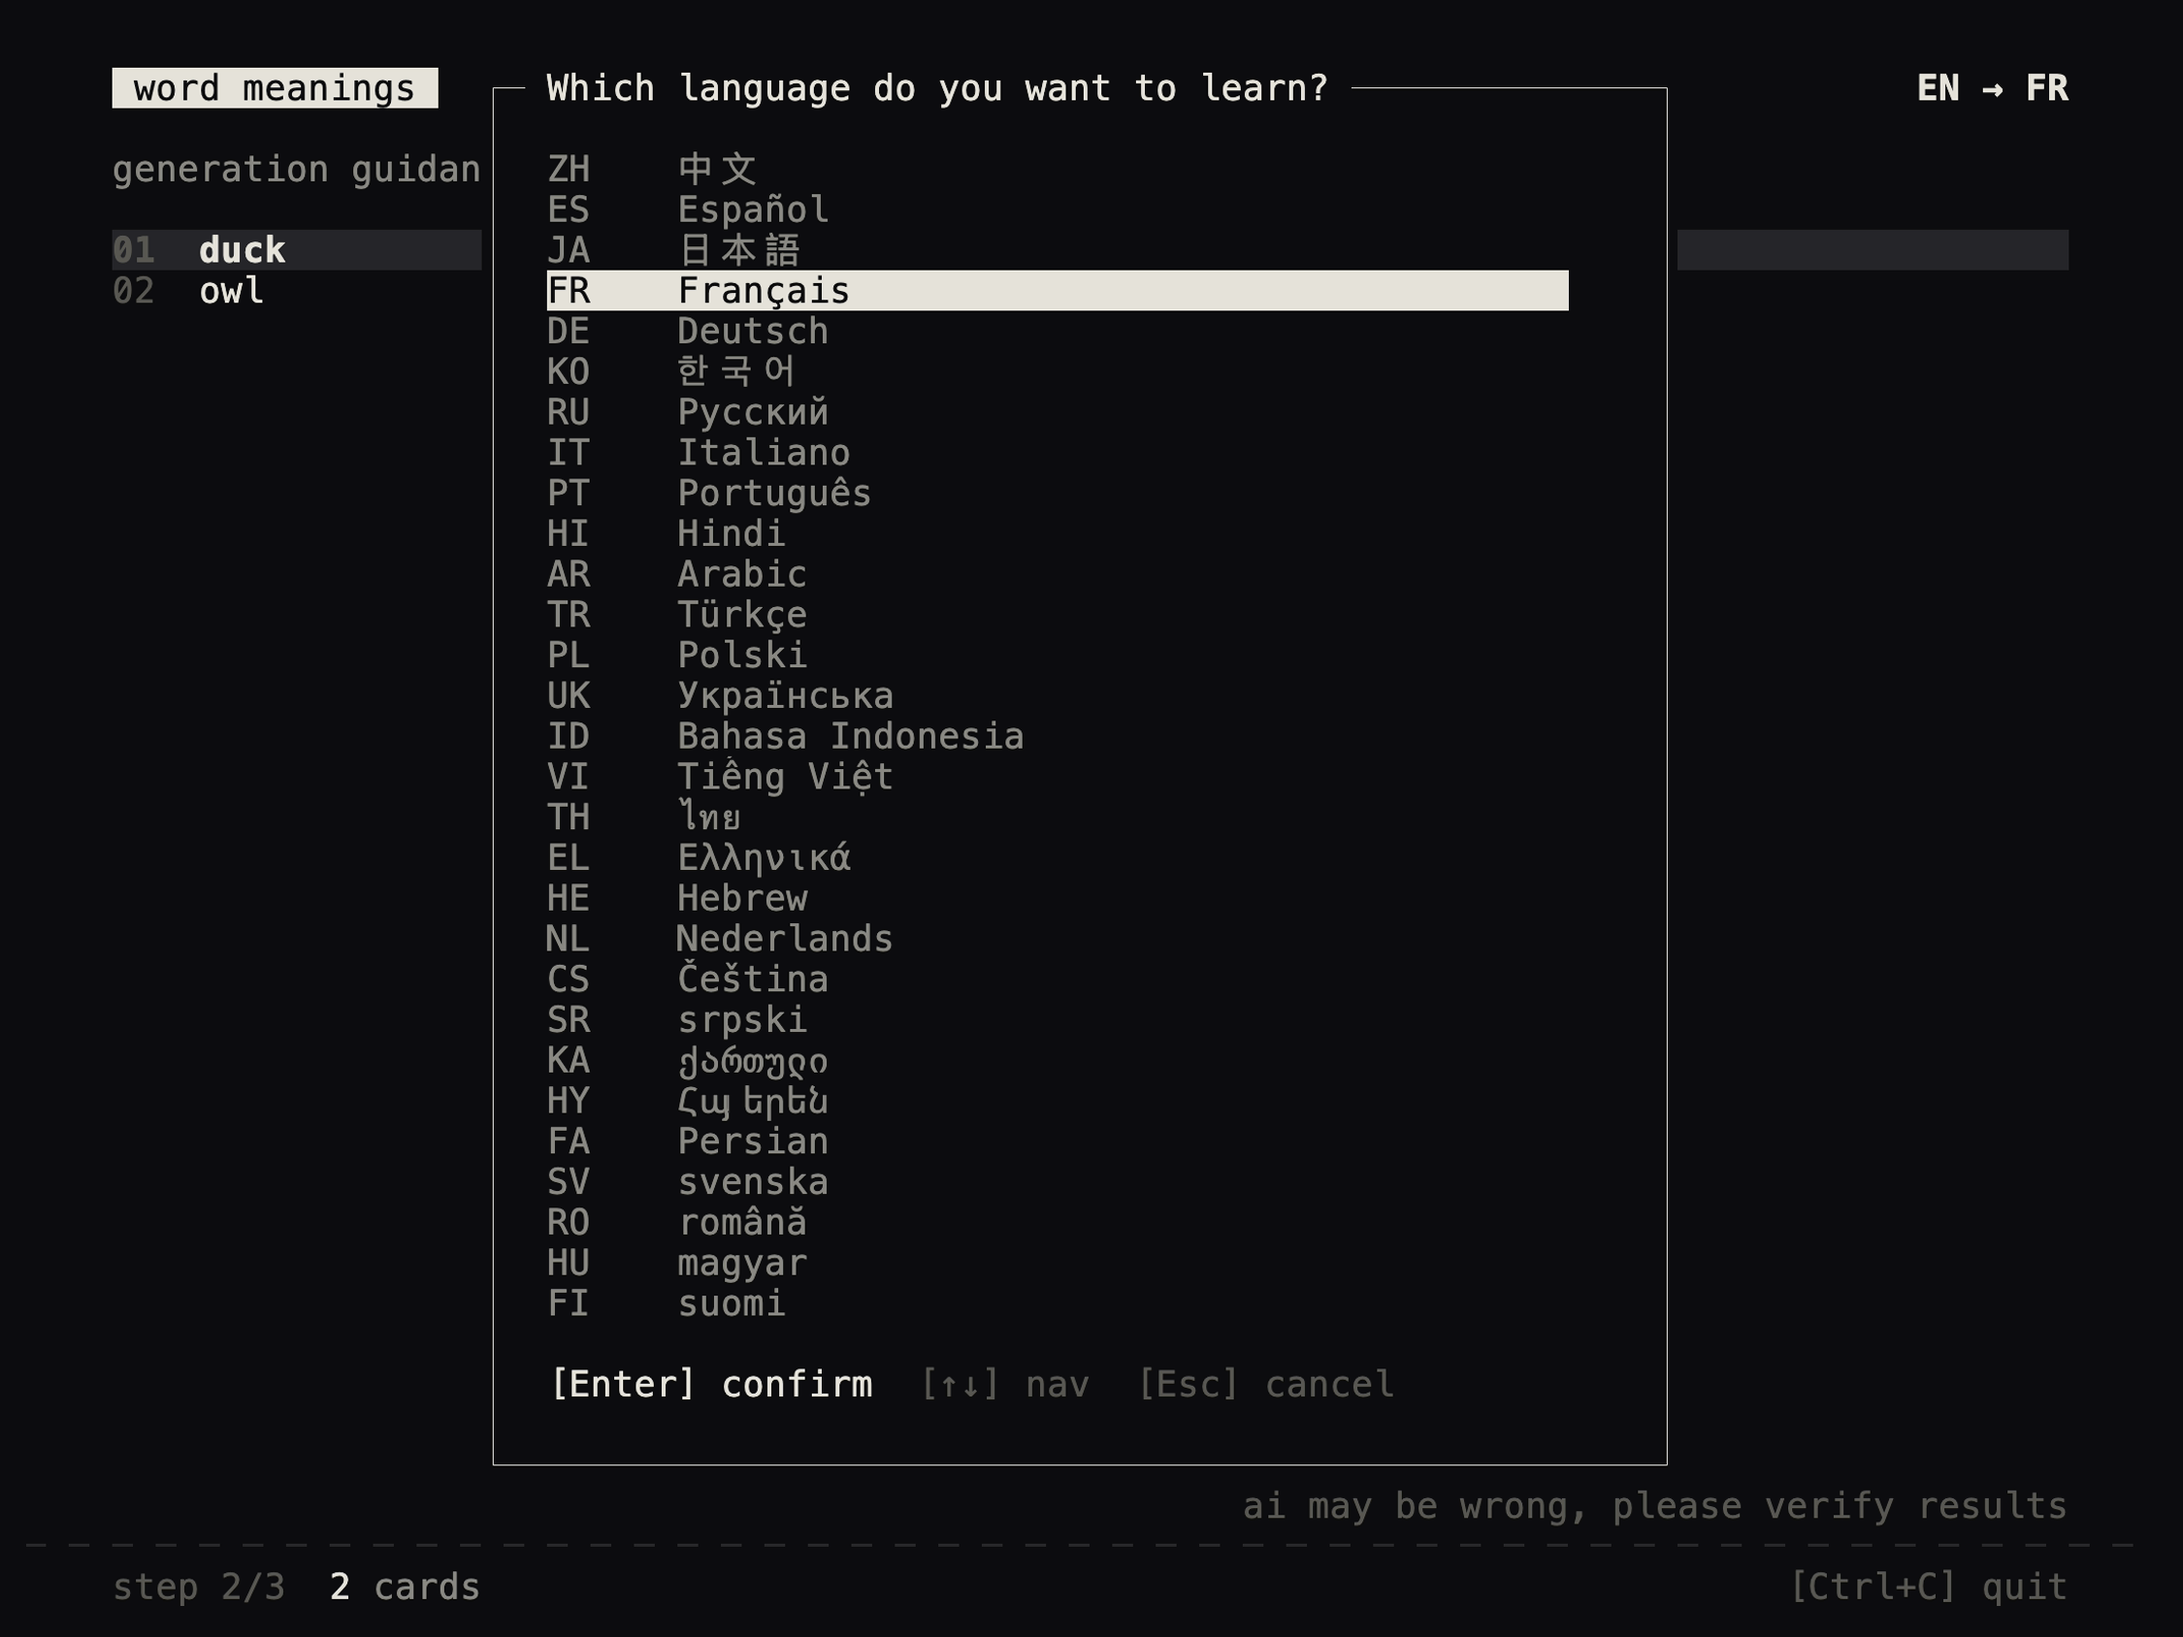
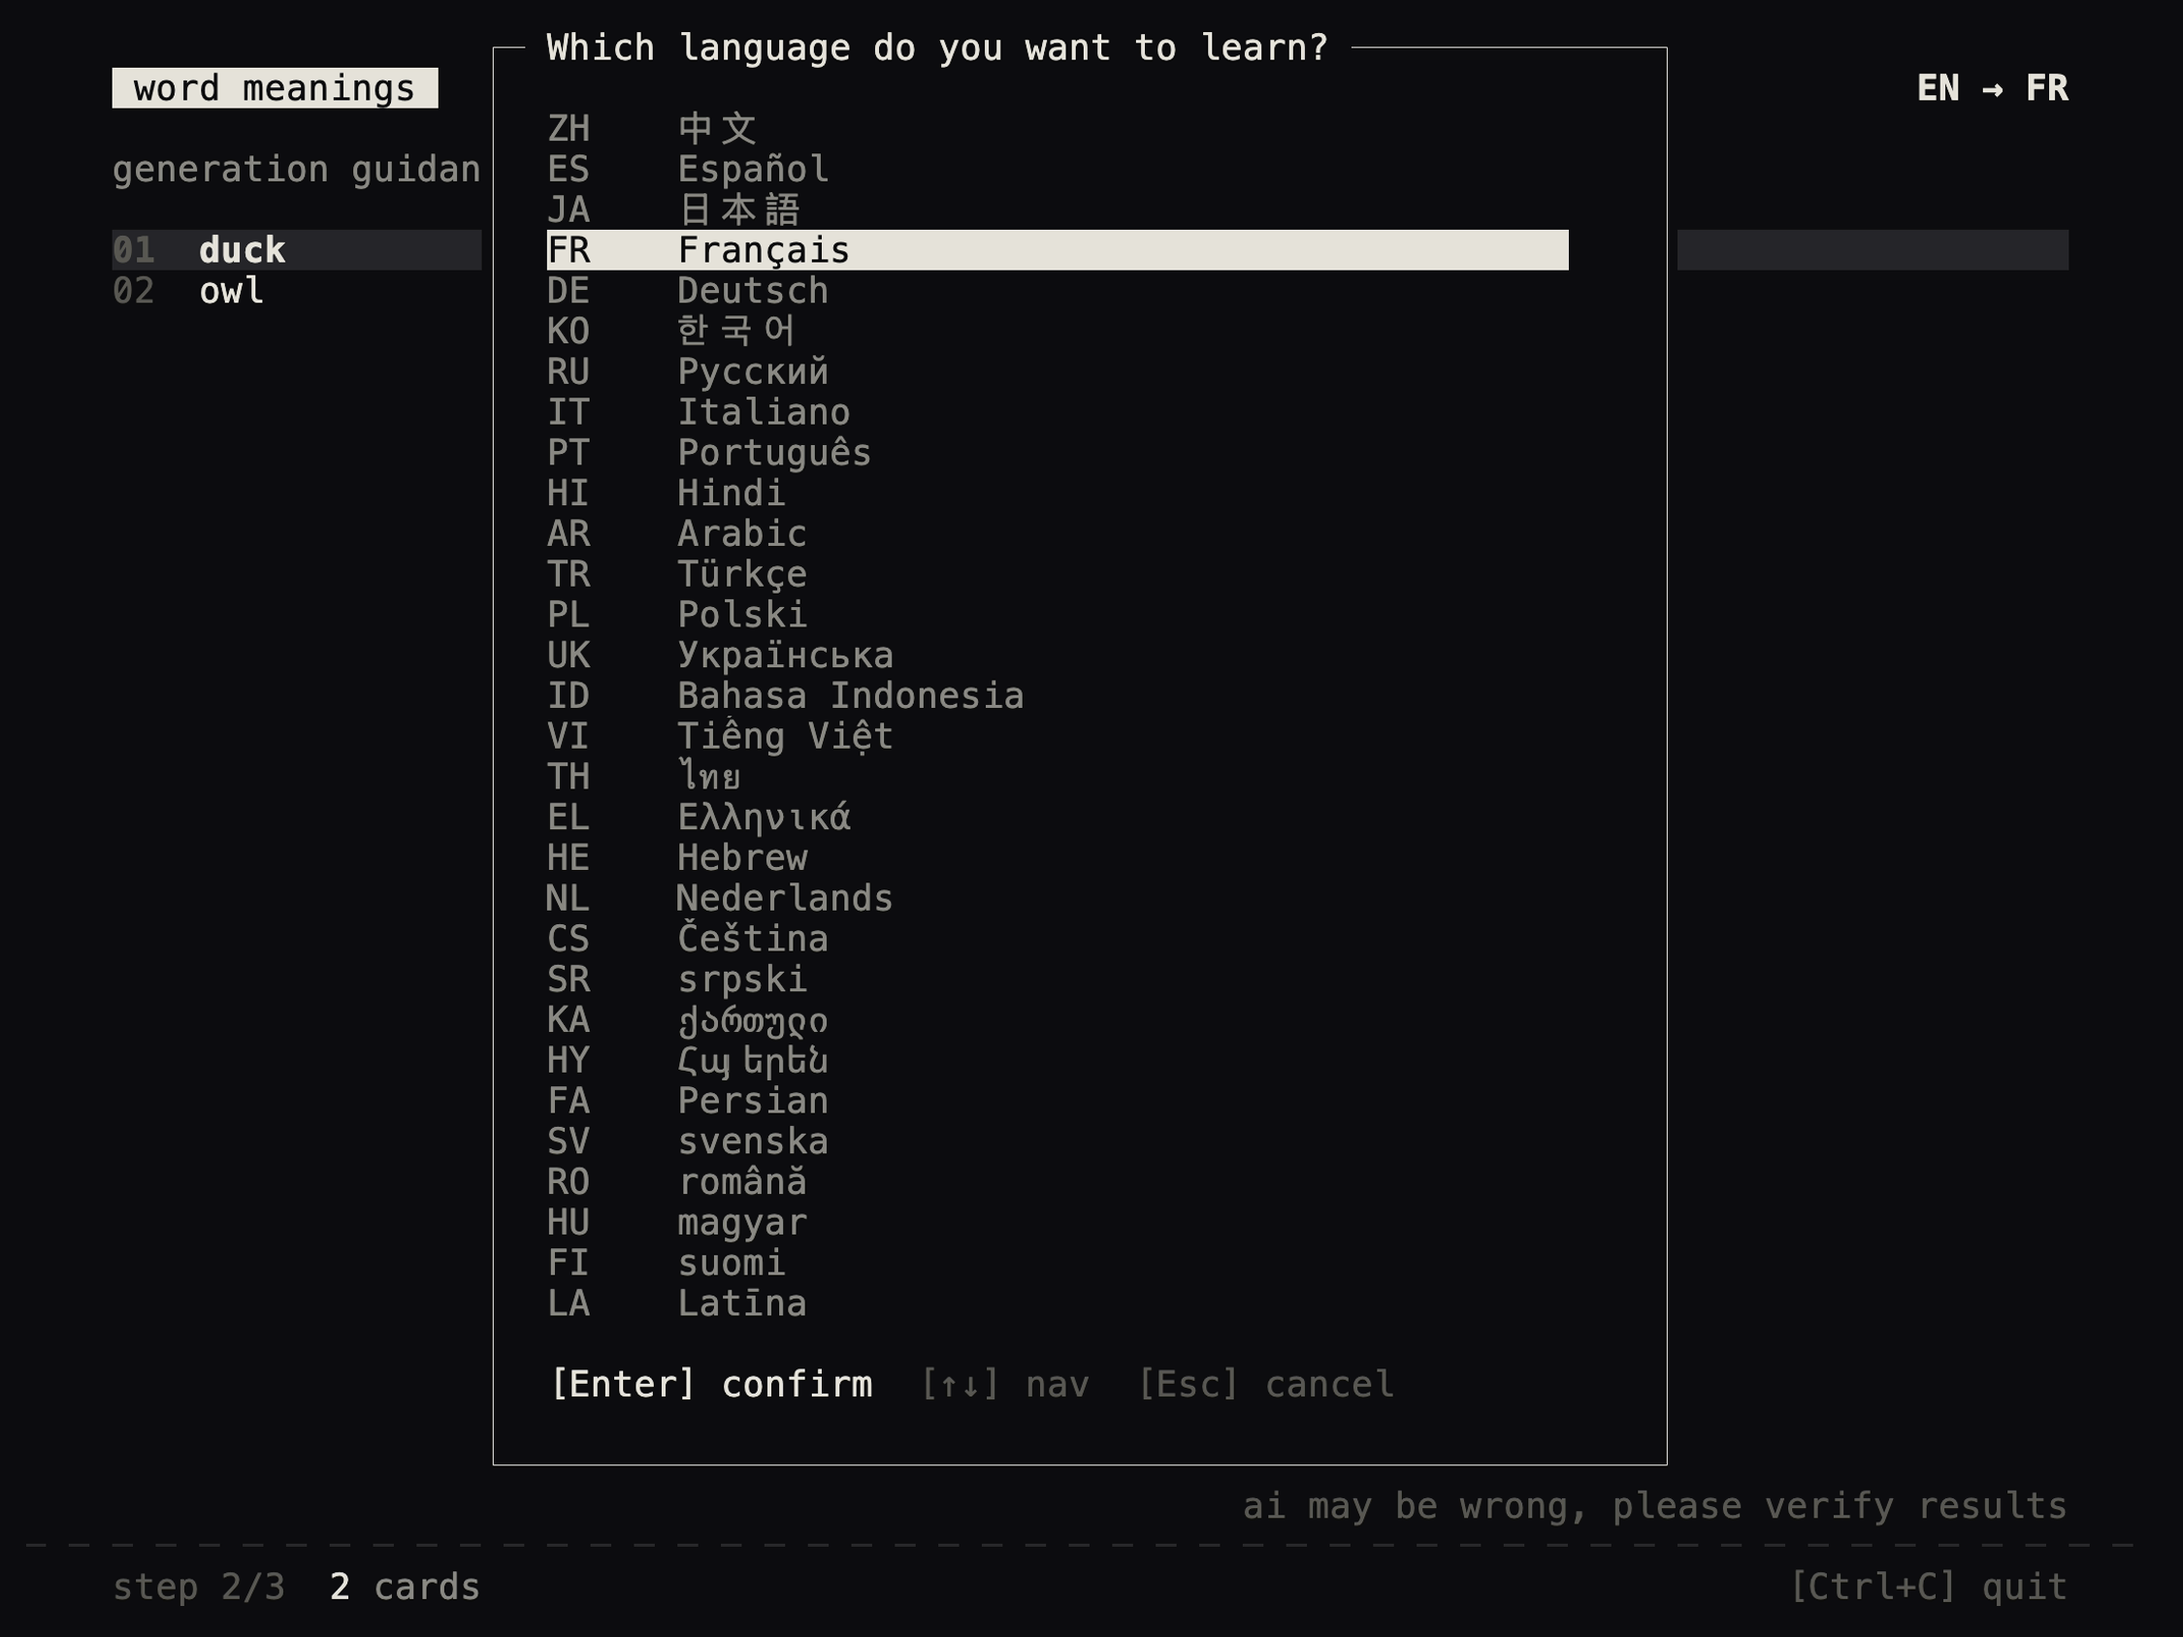
1.18.0: Learn Latin with Classical pronunciation (#73)
* Add Classical Latin support for release 1.18.0

* Refresh language picker captures for Classical Latin

* Fix the vowel length in a Latin example

Changed region(s): [[0.2489, 0.0, 0.7156, 0.8009]]

diff --git a/src/languages/registry.rs b/src/languages/registry.rs
@@ -60,7 +60,7 @@ impl LanguageCatalog {
     }
 
     /// Return the supported language codes in stable order.
-    pub fn codes(&self) -> [&'static str; 30] {
+    pub fn codes(&self) -> [&'static str; 31] {
         profile_codes()
     }
 
@@ -88,7 +88,7 @@ impl LanguageCatalog {
 }
 
 /// Return codes from the canonical profile declarations.
-pub(super) fn profile_codes() -> [&'static str; 30] {
+pub(super) fn profile_codes() -> [&'static str; 31] {
     from_fn(|index| profiles()[index].code)
 }
 
@@ -106,10 +106,10 @@ pub fn language(code: &str) -> Result<LanguageProfile> {
 ///
 /// Every catalog lookup reads this table, and the TUI reads it thousands of
 /// times per rendered frame, so declaring it per call meant rebuilding
-/// thirty profiles — and every string inside them — on each one. The
+/// thirty-one profiles — and every string inside them — on each one. The
 /// declaration is a constant, so it is built once and lent out by reference.
-fn profiles() -> &'static [LanguageProfile; 30] {
-    static PROFILES: OnceLock<[LanguageProfile; 30]> = OnceLock::new();
+fn profiles() -> &'static [LanguageProfile; 31] {
+    static PROFILES: OnceLock<[LanguageProfile; 31]> = OnceLock::new();
     PROFILES.get_or_init(declared_profiles)
 }
 
@@ -117,7 +117,7 @@ fn profiles() -> &'static [LanguageProfile; 30] {
 /// the order surfaced everywhere in the UI (Welcome chips, `Cmd+L` picker,
 /// Gemini language list) and is sorted by global learning popularity, not
 /// alphabetically.
-fn declared_profiles() -> [LanguageProfile; 30] {
+fn declared_profiles() -> [LanguageProfile; 31] {
     [
         LanguageProfile {
             code: "en",
@@ -389,6 +389,15 @@ fn declared_profiles() -> [LanguageProfile; 30] {
             naming: DeckNaming::new("Finnish Vocabulary", "fi", super::DEFAULT_FILE),
             labels: UiLabels::new("Käännös", "Asiayhteys", "Vihje", "Tärkeys"),
         },
+        LanguageProfile {
+            code: "la",
+            prompt: String::from("Classical Latin"),
+            endonym: String::from("Latīna"),
+            text_gate: TextGate::Ocr(OcrModel::Latin),
+            direction: TextDirection::Ltr,
+            naming: DeckNaming::new("Latin Vocabulary", "la", super::DEFAULT_FILE),
+            labels: UiLabels::new("Interpretātiō", "Contextus", "Indicium", "Momentum"),
+        },
     ]
 }
 
@@ -429,7 +438,7 @@ mod tests {
             [
                 "en", "zh", "es", "ja", "fr", "de", "ko", "ru", "it", "pt", "hi", "ar", "tr", "pl",
                 "uk", "id", "vi", "th", "el", "he", "nl", "cs", "sr", "ka", "hy", "fa", "sv", "ro",
-                "hu", "fi",
+                "hu", "fi", "la",
             ],
             "language profiles no longer follow the requested popularity order"
         );
@@ -477,6 +486,7 @@ mod tests {
                 ("ro", TextGate::Ocr(OcrModel::Latin), TextDirection::Ltr),
                 ("hu", TextGate::Ocr(OcrModel::Latin), TextDirection::Ltr),
                 ("fi", TextGate::Ocr(OcrModel::Latin), TextDirection::Ltr),
+                ("la", TextGate::Ocr(OcrModel::Latin), TextDirection::Ltr),
             ],
             "a language profile lost its authoritative gate or direction declaration"
         );
@@ -576,6 +586,7 @@ mod tests {
                 ("ro", "română".into()),
                 ("hu", "magyar".into()),
                 ("fi", "suomi".into()),
+                ("la", "Latīna".into()),
             ],
             "a language profile lost or misspelled the name it shows itself under"
         );

diff --git a/tests/snapshot.rs b/tests/snapshot.rs
@@ -208,7 +208,7 @@ fn welcome_language_grid_cannot_hide_the_added_codes_on_a_short_terminal() {
     );
     let rendered = render_sized(&app, 80, 16);
     assert!(
-        ["SR", "KA", "HY", "FA", "SV", "RO", "HU", "FI"]
+        ["SR", "KA", "HY", "FA", "SV", "RO", "HU", "FI", "LA"]
             .into_iter()
             .all(|code| rendered.contains(format!(" {code} ").as_str())),
         "the short Welcome grid hid an added language code"
@@ -354,7 +354,7 @@ fn pick_languages_modal_scrolls_the_last_language_into_view() {
     )
     .0;
     assert!(
-        render_sized(&walked, 96, 20).contains("suomi"),
+        render_sized(&walked, 96, 20).contains("Latīna"),
         "the last language stayed unreachable however far the column scrolled"
     );
 }
@@ -372,14 +372,23 @@ fn pick_languages_modal_keeps_every_row_in_one_grid() {
     let borders = (0..buffer.area.height)
         .map(|row| {
             (0..buffer.area.width)
-                .filter(|column| buffer[(*column, row)].symbol() == "│")
+                .filter(|column| matches!(buffer[(*column, row)].symbol(), "│" | "┃"))
                 .collect::<Vec<_>>()
         })
         .filter(|found| !found.is_empty())
+        .collect::<Vec<_>>();
+    let outer = borders
+        .iter()
+        .map(|row| (row[0], row[row.len() - 1]))
+        .collect::<std::collections::BTreeSet<_>>();
+    let inner = borders
+        .iter()
+        .filter(|row| row.len() > 2)
+        .map(|row| &row[1..row.len() - 1])
         .collect::<std::collections::BTreeSet<_>>();
     assert_eq!(
-        borders.len(),
-        1,
+        (outer.len(), inner.len()),
+        (1, 1),
         "a row of the language modal escaped the grid the others share"
     );
 }

diff --git a/src/gemini/client.rs b/src/gemini/client.rs
@@ -2502,6 +2502,39 @@ mod tests {
     }
 
     #[test]
+    fn classical_latin_speech_cannot_be_refused_or_lose_its_variety() {
+        let transport = FakeTransport::new(vec![body(json!({
+            "candidates": [{"content": {"parts": [{"inlineData": {
+                "mimeType": "audio/L16;codec=pcm;rate=24000", "data": "AAA="
+            }}]}}]
+        }))]);
+        let profile = crate::languages::language("LA").expect("Latin must resolve");
+        let prompt = crate::generation::render_audio_prompt(&profile.prompt);
+        let client = GeminiClient::new("key", transport.clone());
+        let bytes = client
+            .speech(
+                &prompt.replace("{text}", "Caesar. Gelū. Vīnum."),
+                "Caesar. Gelū. Vīnum.",
+            )
+            .expect("Latin speech must reach the configured model");
+        let request: Value = serde_json::from_str(&transport.requests.borrow()[0])
+            .expect("Latin speech request must decode");
+        assert_eq!(
+            (
+                bytes,
+                transport.requests.borrow().len(),
+                request["contents"][0]["parts"][0].clone()
+            ),
+            (
+                vec![0, 0],
+                1,
+                json!({"text": "Caesar. Gelū. Vīnum.", "speech_metadata": {"style": "Say in natural Classical Latin"}})
+            ),
+            "Latin speech was refused or lost its classical delivery directions"
+        );
+    }
+
+    #[test]
     fn observed_speech_cannot_skip_the_new_request_or_usage_record() {
         let transport = FakeTransport::new(vec![body(json!({
             "candidates": [{"content": {"parts": [{"inlineData": {

diff --git a/tests/profile.rs b/tests/profile.rs
@@ -45,6 +45,34 @@ fn score(value: u8) -> Importance {
     Importance::new(value).expect("test importance must be valid")
 }
 
+/// The Latin profile carries its classical variety through the existing speech template.
+#[test]
+fn classical_latin_cannot_lose_its_pronunciation_variety() {
+    let item = language("lA").expect("Classical Latin must resolve");
+    assert_eq!(
+        (
+            catalog()
+                .resolve("la")
+                .expect("Latin must canonicalize")
+                .to_string(),
+            item.endonym,
+            item.text_gate,
+            item.direction,
+            item.naming.prefix,
+            kamishibai::generation::render_audio_prompt(&item.prompt)
+        ),
+        (
+            String::from("LA"),
+            String::from("Latīna"),
+            TextGate::Ocr(OcrModel::Latin),
+            TextDirection::Ltr,
+            String::from("la"),
+            String::from("Say in natural Classical Latin: {text}")
+        ),
+        "Latin lost its canonical identity or classical speech variety"
+    );
+}
+
 /// Supported profiles keep the frozen runtime values.
 #[test]
 fn english_profile_keeps_the_frozen_runtime_values() -> Result<()> {
@@ -153,7 +181,7 @@ fn registry_keeps_the_supported_codes_in_stable_order() {
         [
             "en", "zh", "es", "ja", "fr", "de", "ko", "ru", "it", "pt", "hi", "ar", "tr", "pl",
             "uk", "id", "vi", "th", "el", "he", "nl", "cs", "sr", "ka", "hy", "fa", "sv", "ro",
-            "hu", "fi",
+            "hu", "fi", "la",
         ],
         "profile registry codes no longer match the frozen order"
     );

diff --git a/src/gemini/prompts.rs b/src/gemini/prompts.rs
@@ -425,6 +425,17 @@ mod tests {
     };
 
     #[test]
+    fn classical_latin_metadata_cannot_request_an_unspecified_variety() {
+        let draft = CardDraft::new("vīnum", "wine", LanguagePair::new("LA", "EN"));
+        assert!(
+            render_card_meta_prompt(&draft, None, &catalog())
+                .expect("Latin metadata must render")
+                .contains("la (Classical Latin)"),
+            "Latin metadata omitted its classical pronunciation variety"
+        );
+    }
+
+    #[test]
     fn recent_language_prompt_cannot_hide_history_or_override_foreign_evidence() {
         let raw = RawInputBatch::new("лук")
             .with_context("лук\ncat")

diff --git a/src/tui/picker.rs b/src/tui/picker.rs
@@ -509,8 +509,20 @@ mod tests {
         let cursor = TranslationCursor::opening("FI", &[]).advanced(-1);
         assert_eq!(
             cursor.choice("FI").pinned(),
-            Some("HU"),
+            Some("LA"),
             "translation navigation wrapped onto the excluded known language"
+        );
+    }
+
+    #[test]
+    fn latin_translation_navigation_cannot_offer_itself() {
+        assert_eq!(
+            TranslationCursor::opening("LA", &[])
+                .advanced(-1)
+                .choice("LA")
+                .pinned(),
+            Some("FI"),
+            "translation navigation offered Latin as its own destination"
         );
     }
 

diff --git a/tests/new_languages.rs b/tests/new_languages.rs
@@ -221,6 +221,19 @@ fn expected(code: &str, deck: &str, labels: (&str, &str, &str, &str)) -> (Smoke,
 }
 
 #[test]
+fn classical_latin_works_in_both_language_roles_offline() {
+    assert_eq!(
+        both("LA", "Caesar vīnum bibit.", "Caesar vīnum bibit."),
+        expected(
+            "LA",
+            "Latin Vocabulary",
+            ("Interpretātiō", "Contextus", "Indicium", "Momentum")
+        ),
+        "Classical Latin did not preserve both offline language roles"
+    );
+}
+
+#[test]
 fn korean_works_in_both_language_roles_offline() {
     assert_eq!(
         both("KO", "표현을 익혔다.", "표현을 익혔다."),

diff --git a/tests/assets.rs b/tests/assets.rs
@@ -144,7 +144,7 @@ fn production_composer_flattens_wire_continuity_without_weakening_the_scene_cont
 fn production_registry_uses_the_version_fifty_eight_visual_revision() {
     assert_eq!(
         assets::visual_revision(),
[2 lines of base64/hex data omitted]
         "production registry visual revision drifted without a policy-version change"
     );
 }

diff --git a/src/languages/prompt_examples.rs b/src/languages/prompt_examples.rs
@@ -594,6 +594,15 @@ mod tests {
                 ["Jelentés.", "Hol hallhatod.", "Hol nem illik.", "Árnyalat."],
             ),
             (
+                "la",
+                [
+                    "Significātiō.",
+                    "Ubi audītur.",
+                    "Ubi nōn convenit.",
+                    "Subtīlitās.",
+                ],
+            ),
+            (
                 "fi",
                 [
                     "Merkitys.",

diff --git a/README.md b/README.md
@@ -128,7 +128,7 @@ Decks round-trip, too: `kamishibai result --json` returns the finished cards in 
 
 ## Languages
 
-Thirty languages:
+Thirty-one languages:
 
 - `en` English
 - `zh` Chinese
@@ -160,6 +160,9 @@ Thirty languages:
 - `ro` Romanian
 - `hu` Hungarian
 - `fi` Finnish
+- `la` Latin (Classical pronunciation)
+
+Latin uses restored Classical pronunciation in generation and speech requests.
 
 Choose your language once. The app uses it for card labels, then detects what you're learning from each batch: paste French words for a French deck, Japanese words for a Japanese deck. When a word lives in several languages at once, `Ctrl+L` sets the pair for that batch yourself.
 

diff --git a/CHANGELOG.md b/CHANGELOG.md
@@ -1,0 +1,6 @@
+# Changelog
+
+## 1.18.0
+
+- Add Latin in both language roles with localized examples, report labels, and Latin-script OCR.
+- Request restored Classical Latin pronunciation through the existing language profile in metadata and speech prompts.
